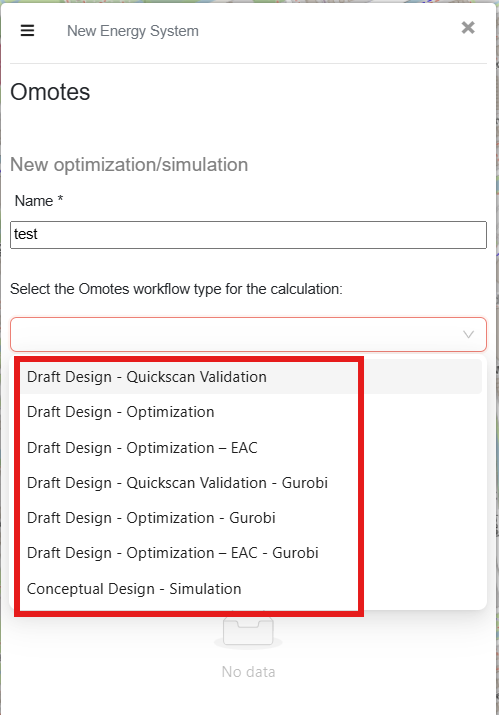
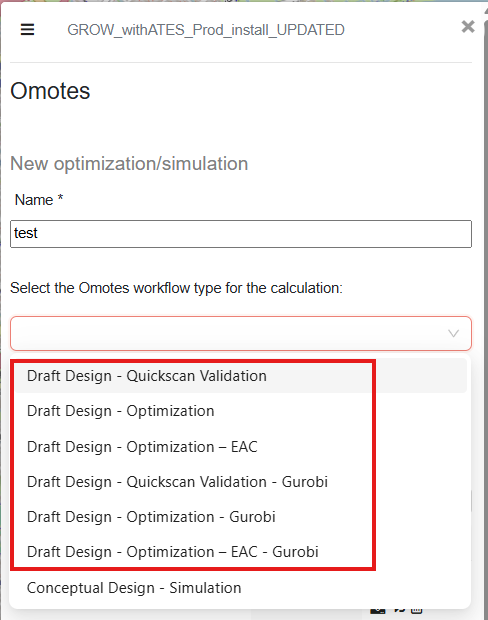
Additional updates based on PR review

diff --git a/docs/supported_tools/dtk_tool_support/dtk_assets/storage_assets/ht_ates.rst b/docs/supported_tools/dtk_tool_support/dtk_assets/storage_assets/ht_ates.rst
@@ -37,7 +37,7 @@ front end and their interpretation and use by the optimizer.
        required then it will be sized appropriately
    * - Basic attributes
      - Technical Lifetime
-     - Operational lifetime of the asset (default=30, min=1, max 50)
+     - Operational lifetime of the asset (default=30, min=1, max=50)
      - Years
      - Optional
      - \-
@@ -60,98 +60,11 @@ front end and their interpretation and use by the optimizer.
      - Required
      - By increasing this number one increases the number of installed ATES doublets.
    * - Advanced attributes
-     - Aquifer Top Depth
-     - The depth of the top of the aquifer (water-bearing permeable rock or
-
-       unconsolidated material) in meters below ground surface
-     - m
-     - Required
-     - NA
-   * - Advanced attributes
-     - Aquifer Thickness
-     - The vertical thickness of the aquifer
-     - m
-     - Required
-     - NA
-   * - Advanced attributes
-     - Aquifer Mid Temperature
-     - The ambient temperature of the aquifer at mid depth
-     - C
-     - Required
-     - NA
-   * - Advanced attributes
-     - Aquifer Net To Gross
-     - The ratio of the total thickness of the aquifer contributing to
-
-       production over the total thickness of the aquifer (usually calculated
-
-       by applying a minimum porosity and maximum clay volume cutoff). The net
-
-       thickness of the aquifer is determined by multiplying the gross thickness
-
-       with the net-to-gross ratio.
+     - Discharge Efficiency
+     - Efficiency of storing heat over a period of 100 days (default = 0.7, min=0, max=1)
      - \-
-     - Required
-     - NA
-   * - Advanced attributes
-     - Aquifer Porosity
-     - The percentage of pore volume or void space within a rock or
-
-       unconsolidated sediment, restricted to those pores that can contribute
-
-       to fluid flow (effective porosity)
-     - %
-     - Required
-     - NA
-   * - Advanced attributes
-     - Aquifer Permeability
-     - The permeability is a measure of the interconnectedness of pores in a
-
-       rock/material. And indicates the ability or ease of a volume of rock to
-
-       transmit fluids.
-     - mD
-     - Required
-     - NA
-   * - Advanced attributes
-     - Aquifer Anisotropy
-     - The directional variation of a property of a volume of rock or
-
-       unconsolidated sand, in this case, the ratio between vertical and
-
-       horizontal permeability.
-     - \-
-     - Required
-     - NA
-   * - Advanced attributes
-     - Salinity
-     - The dissolved salt content in a body of water usually expressed as NaCl
-       equivalent
-     - ppm
-     - Required
-     - NA
-   * - Advanced attributes
-     - Well Casing Size
-     - In ROSIM/DoubletCalc3D, the simulation software behind the ATES module
-
-       (used in the Simulator solver), this means the diameter of the part of
-
-       the well in which the permeability is significantly higher than the
-
-       formation, in this case, the borehole diameter
-     - inch
-     - Required
-     - NA
-   * - Advanced attributes
-     - Well Distance
-     - The well distance is the distance between two wells at storage aquifer
-
-       (reservoir) depth. For HT-ATES, often the distance between the hot and
-
-       cold/warm well.
-     - m
-     - Required
-     - NA
+     - Optional
+     - Discharge efficiency is used to calculate the heat loss coefficient.
    * - Ports
      - Inport and OutPort (1 off each)
      - The in port and the out port for the asset should be connected to 1
@@ -212,3 +125,4 @@ Assumptions
 ^^^^^^^^^^^
 * The temperature at the inport must be higher than the temperature at the outport (:math:`\mathrm{T_{In} > T_{Out}}`).
 * The heat physics described for the storage and tank in :ref:`heat_physics_storage` and :ref:`heat_physics_storage_ates` sections applies to HT-ATES asset.
+* Heat loss coefficient is the fraction of stored heat lost per second and calculated by :math:`\mathrm{\frac{1 - \eta^{1/100}}{3600.0 \times 24.0}\ s^{-1}}`, where :math:`\mathrm{\eta}` is the discharge efficiency. Default value of the heat loss coefficient is equivalent to losing 30% of the stored heat per 100 days.

diff --git a/docs/supported_tools/dtk_tool_support/dtk_assets/storage_assets/heat_storage.rst b/docs/supported_tools/dtk_tool_support/dtk_assets/storage_assets/heat_storage.rst
@@ -70,10 +70,10 @@ front end and their interpretation and use by the optimizer.
        are specified, then only the volume will be used.
    * - Advanced attributes
      - Self Discharge Rate
-     - Heat loss of heat storage (the default value corresponds to a loss of 1% of the stored heat per day).
+     - Heat loss at the maximum heat storage capacity (the default value makes the heat loss 1% of the stored heat per day).
      - W
      - Optional
-     - The heat loss coefficient is derived by dividing the self discharge rate by the stored heat, giving the fraction of stored heat lost per second.
+     - Self discharge rate is used to calculate the heat loss coefficient.
    * - Ports
      - Inport and OutPort (1 of each)
      - The in port and the out port for the asset should be connected 1 hydraulically coupled network.
@@ -129,4 +129,4 @@ Assumptions
 * If both capacity and volume are specified, the volume definition takes precedence.
 * If the maximum charge or discharge rate is not specified, the optimizer uses a default of :math:`10e6\,\mathrm{W}`.
 * The heat physics described for the storage and tank in :ref:`heat_physics_storage` and :ref:`heat_physics_storage_tank` sections applies to the surface tank storage asset.
-* By default, the heat loss coefficient is set to :math:`0.01 / 24.0 / 3600.0`, equivalent to losing 1% of the stored heat per day.
+* The heat loss coefficient is the fraction of stored heat lost per second and obtained by dividing the self discharge rate by the maximum heat storage capacity. Its default value corresponds to a loss of 1% of the stored heat per day.

diff --git a/docs/supported_tools/dtk_tool_support/dtk_assets/transport_assets/pipe.rst b/docs/supported_tools/dtk_tool_support/dtk_assets/transport_assets/pipe.rst
@@ -175,6 +175,6 @@ Constraints
 Assumptions
 ^^^^^^^^^^^
 * Pipe length is lower-bounded at 25 m; shorter input lengths are treated as 25 m.
+* The pipe heat loss calculation accounts for both the heat transfer from the pipe to the ground and the heat transfer between the supply and return pipes. The latter is taken into account when the return pipes are created with the pipe duplicator, since in that case they are assumed to be laid next to each other and considered as a related pipe pair.
 * If a pipe pair set as related to the each other, pipe sizing is performed over only one of the pipe assets, and the other pipe is sized identically.
-* When a pipe duplicator is used to create the return pipes, both the supply and return pipes become automatically related pipes.
 * The heat physics described for the pipe in :ref:`heat_physics_pipe` section applies to the pipe asset.

diff --git a/CHANGELOG.md b/CHANGELOG.md
@@ -1,4 +1,4 @@
-# [Unreleased-main] - 2026-11-11
+# [Unreleased-main] - 2026-11-13
 
 ## Added
 - A hydraulic power variable is created for heat and cold demands, used when head loss calculations are included.
